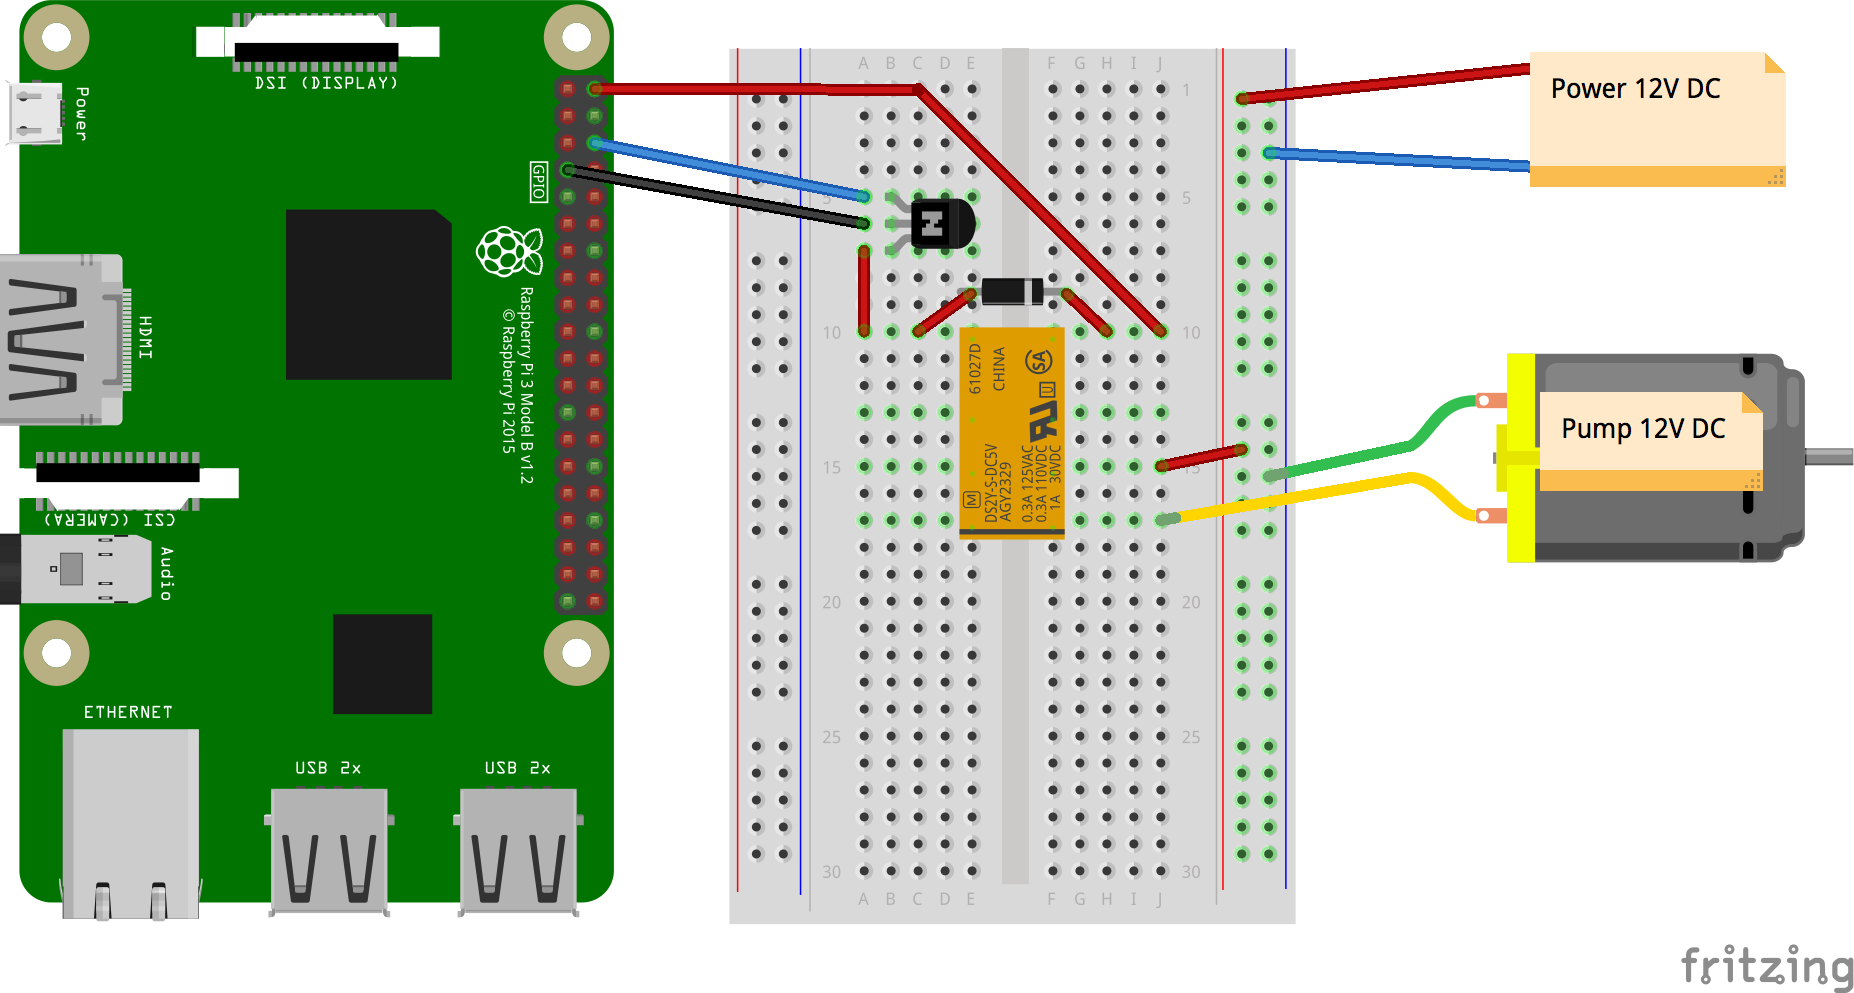
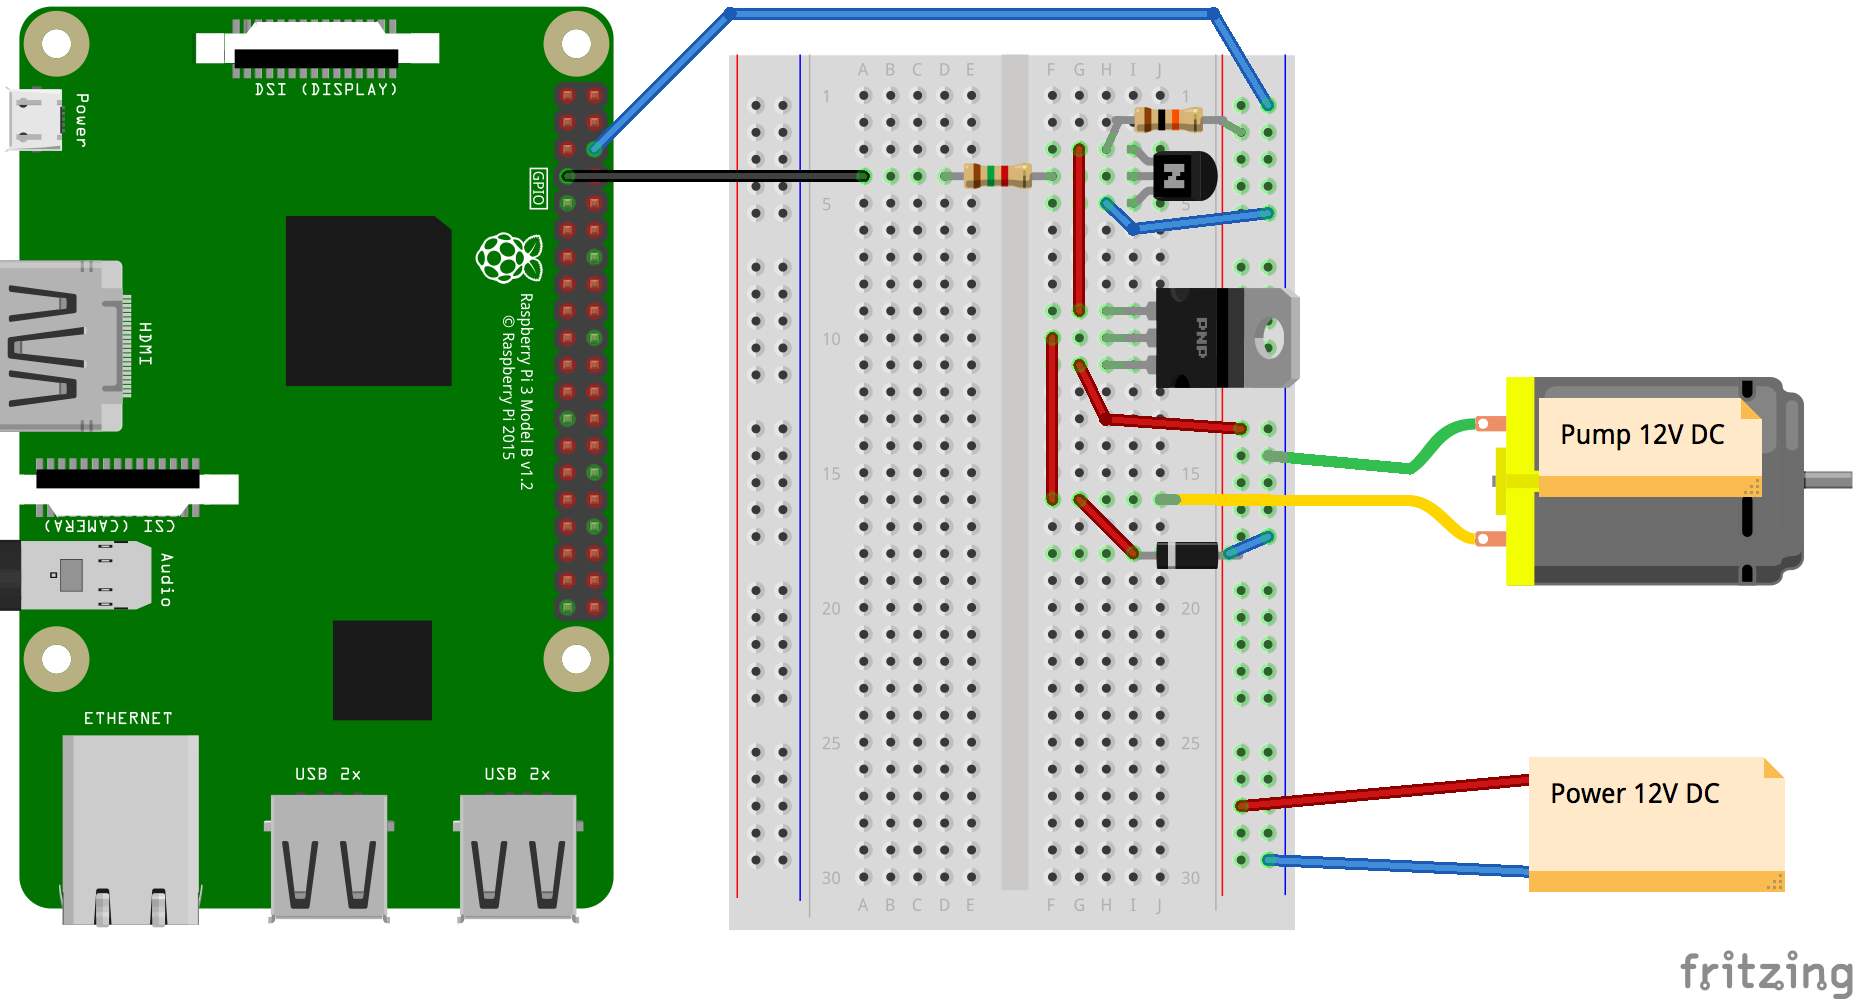
Update electronic sketchs

diff --git a/README.rst b/README.rst
@@ -23,12 +23,14 @@ Hardware
 ^^^^^^^^
 
 * 1 Raspberry Pi 2 Model B (or higher)
-* 1 pump and its power supply (or electro valve) 12V DC
+* 1 pump and its power supply 12V DC (or electro valve)
 * 1 to 4 soil moisture sensors (Arduino TE215)
 * 1 Analog-to-Digital Converter (ADS1015 or ADS1115 4 Channel I2C)
-* 1 transistor NPN (type BC237B but other may work fine)
-* 1 resistor of 1500 Ohm
-* 1 Relay module (12V DC)
+* 2 transistors NPN (type BC237B)
+* 1 transistor PNP high power switch (type BDX34)
+* 1 zener diode (type 1N4007)
+* 2 resistors of 1.5k Ohm
+* 1 resistor of 10k Ohm
 
 Software
 ^^^^^^^^
